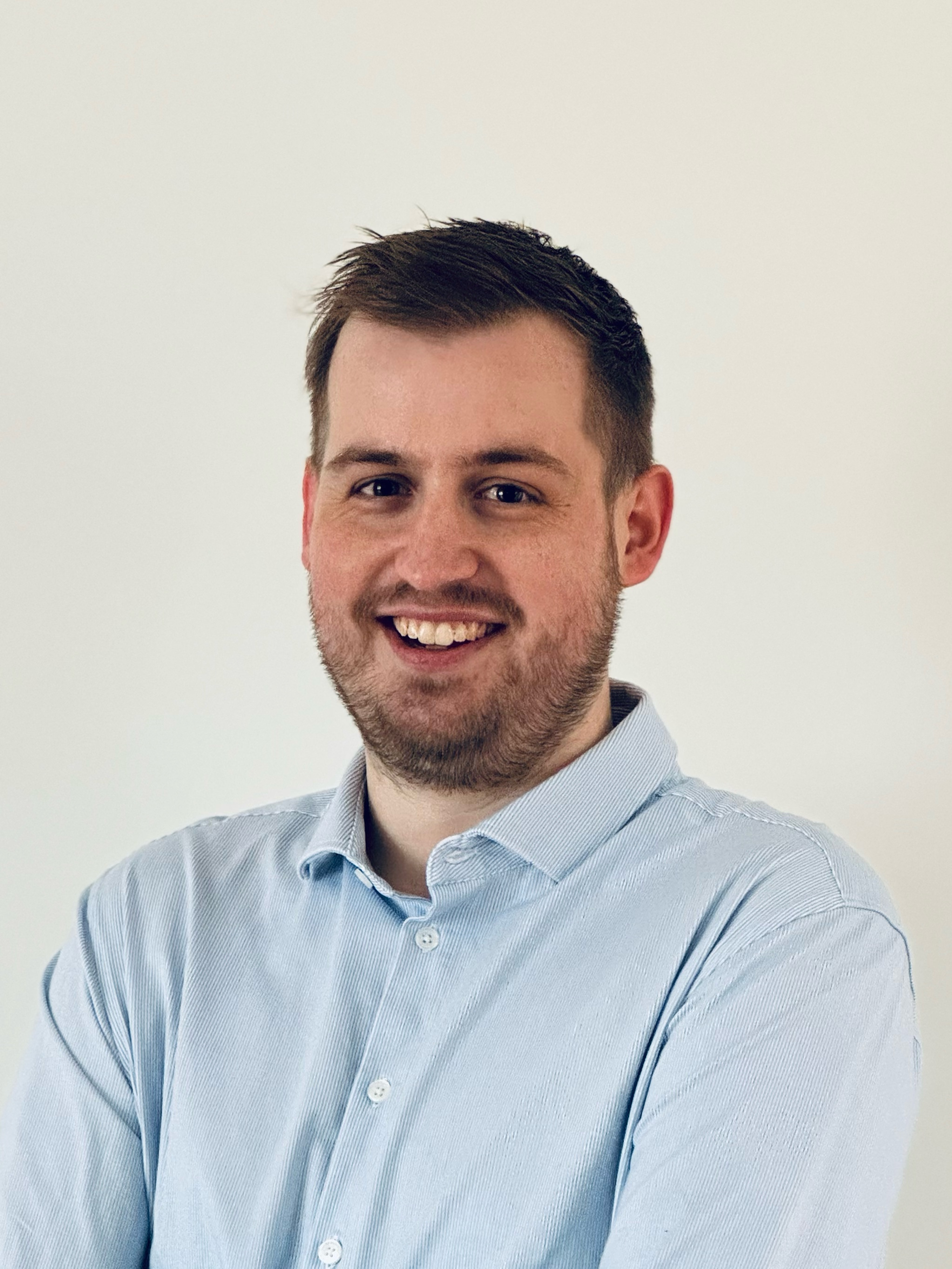
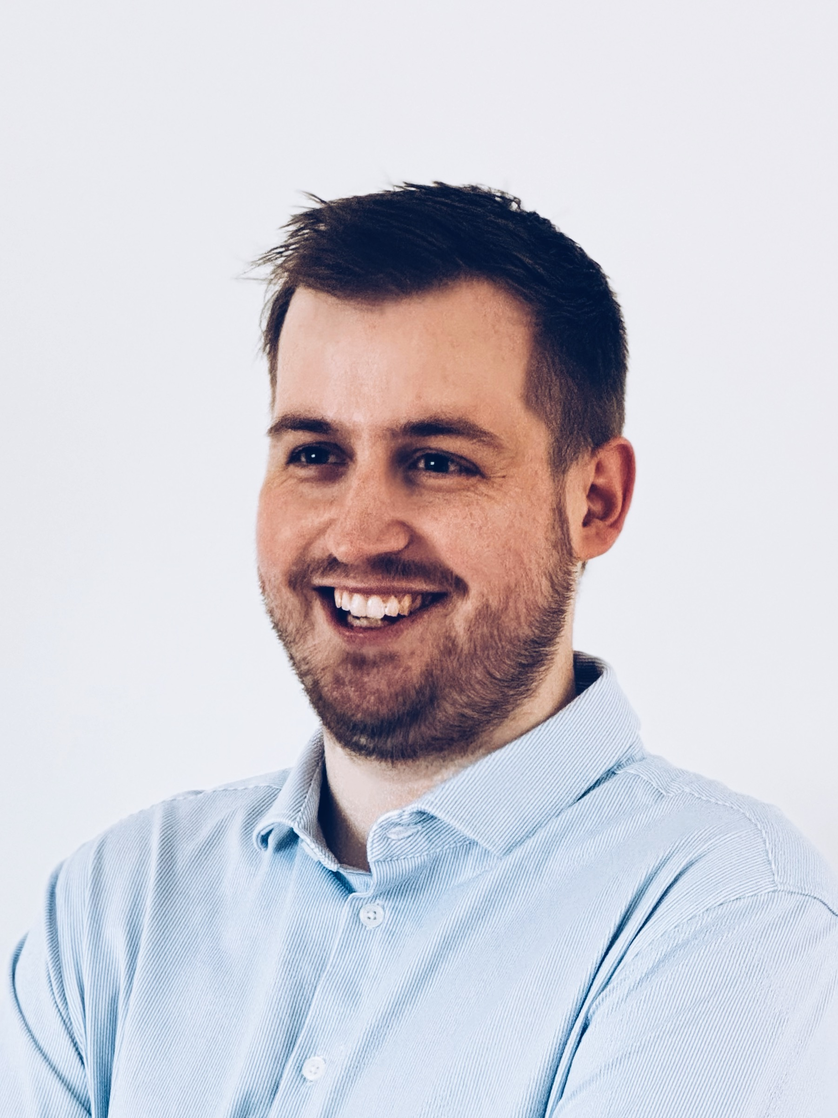
Started on projects section

diff --git a/index.html b/index.html
@@ -55,9 +55,93 @@
                     </div>
               </div>
                 <div class="image">
-                    <img src="images/marc2.JPG" alt="Profile picture">
+                    <img src="images/marc.JPG" alt="Profile picture">
                 </div>
             </div>
         </section>
+        
+        <!-- PROJECTS SECTION -->
+
+        <div class="projects-section" id="projects">
+            <header>
+                <h3>Projects</h3>
+                <h1>Some Of My Work:</h1>
+            </header>
+        </div>
+        <div class="wrapper">
+            <!-- PROJECT 1 -->
+            <div class="project-card">
+                <div class="project-image-container">
+                    <img class="project-image" src="./images/project1.PNG" alt="project 1">
+                </div>
+                <div class="project-content">
+                    <h3>Landing Page</h3>
+                    <div class="check-project">
+                        <a href="#" target="_blank">
+                            <i class="fa-brands fa-github"></i> 
+                        </a>
+                        <a href="#" target="_blank">
+                            <i class="fas fa-external-link-alt"></i> 
+                        </a>
+                    </div>
+                </div>
+            </div>
+            <!-- END OF PROJECT 1 -->
+            <!-- PROJECT 2 -->
+            <div class="project-card">
+                <div class="project-image-container">
+                    <img class="project-image" src="./images/project2.PNG" alt="project 2">
+                </div>
+                <div class="project-content">
+                    <h3>Landing Page</h3>
+                    <div class="check-project">
+                        <a href="#" target="_blank">
+                            <i class="fa-brands fa-github"></i> 
+                        </a>
+                        <a href="#" target="_blank">
+                            <i class="fas fa-external-link-alt"></i> 
+                        </a>
+                    </div>
+                </div>
+            </div>
+            <!-- END OF PROJECT 2 -->
+            <!-- PROJECT 3 -->
+            <div class="project-card">
+                <div class="project-image-container">
+                    <img class="project-image" src="./images/project3.PNG" alt="project 3">
+                </div>
+                <div class="project-content">
+                    <h3>Landing Page</h3>
+                    <div class="check-project">
+                        <a href="#" target="_blank">
+                            <i class="fa-brands fa-github"></i> 
+                        </a>
+                        <a href="#" target="_blank">
+                            <i class="fas fa-external-link-alt"></i> 
+                        </a>
+                    </div>
+                </div>
+            </div>
+            <!-- END OF PROJECT 3 -->
+            <!-- PROJECT 4 -->
+            <div class="project-card">
+                <div class="project-image-container">
+                    <img class="project-image" src="./images/project4.PNG" alt="project 4">
+                </div>
+                <div class="project-content">
+                    <h3>Landing Page</h3>
+                    <div class="check-project">
+                        <a href="#" target="_blank">
+                            <i class="fa-brands fa-github"></i> 
+                        </a>
+                        <a href="#" target="_blank">
+                            <i class="fas fa-external-link-alt"></i> 
+                        </a>
+                    </div>
+                </div>
+            </div>
+            <!-- END OF PROJECT 4 -->
+        </div>
+
 </body>
 </html>

diff --git a/styles.css b/styles.css
@@ -201,3 +201,6 @@ img {
     line-height: 3.3rem;
     margin-bottom: 1rem;
 }
+
+/* https://www.youtube.com/watch?v=LLzWSIIjMdQ */
+/* part 2: https://www.youtube.com/watch?v=CZ26zhDemE8 */
